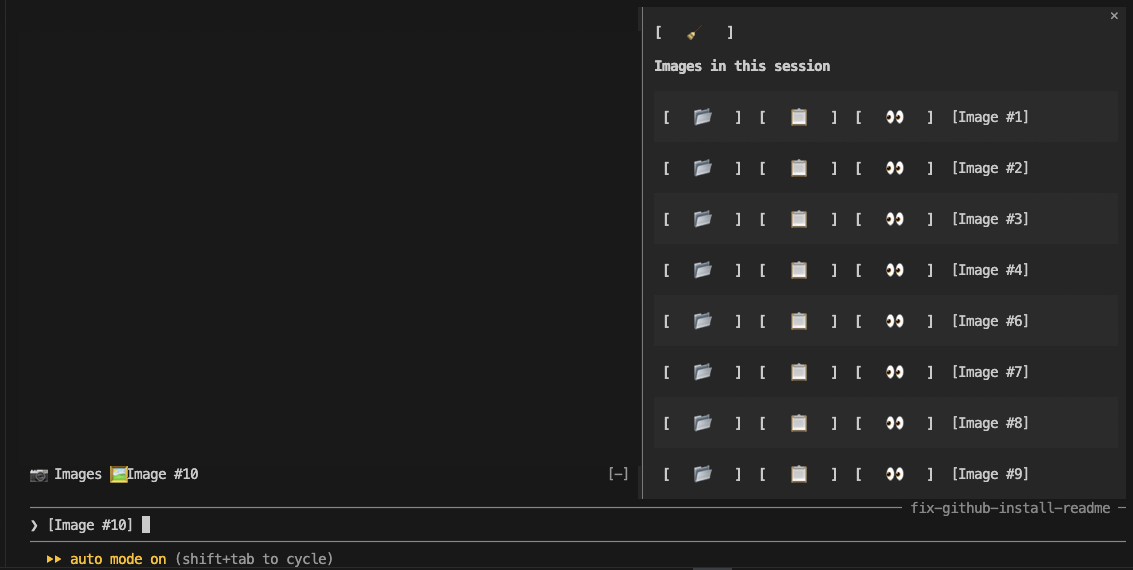
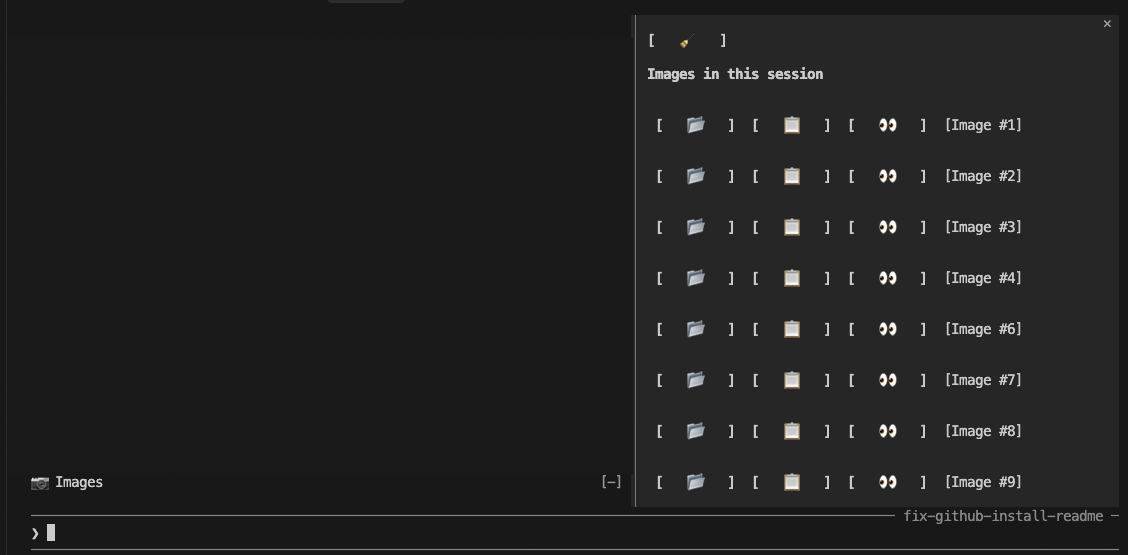
docs: update image preview screenshot description in README

diff --git a/README.md b/README.md
@@ -8,7 +8,7 @@ You paste or drop an image into the prompt, don't submit, and step away. When yo
 
 This mod fills the gap: the `🖼 Image #N` chips above the prompt open the pending image in your OS viewer. It works for images pasted from the clipboard as well as dropped files, before you submit. Type a space after the `[Image #N]` tag that Claude Code inserts, so the chip appears.
 
-![The image-preview mod: the Images pane with a row per image, and the Images button and Image #10 chip above the prompt](screenshots/image-preview-mod.png)
+![The image-preview mod: the Images pane with a row per image, and the Images button above the prompt](screenshots/image-preview-mod.png)
 
 ## What it does
 
